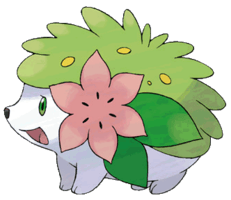
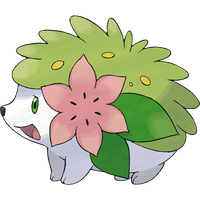
Added missing images

diff --git a/doc/resizeImages.py b/doc/resizeImages.py
@@ -1,24 +1,27 @@
 import os
 from PIL import Image
 
+SRC = "image_tmp"
+DEST = "image_tmp"
+HEIGHT = 200
 
-# count = 100
-# for root, dirs, files in os.walk("image"):
-    # for file in files:
-        # if count < 0: break
-        # count -= 1
-        # i = Image.open("image/"+file)
-        # # i = i.resize((i.size[0], i.size[1]), Image.ANTIALIAS)
-        # i.convert("P")
-        # i.save("image-small/"+file.split(".")[0]+".png", optimize=True, quality=10)
+def resize():
+    for root, dirs, files in os.walk(SRC):
+        for file in files:
+            i = Image.open(SRC + "/"+file)
+            i.thumbnail((i.size[0]*HEIGHT/i.size[1], i.size[1]), Image.ANTIALIAS)
+            i.convert("P")
+            i.save(DEST + "/"+file.split(".")[0]+".png", optimize=True, quality=10)
 
+def compress():
+    for root, dirs, files in os.walk(SRC):
+        for file in files:
+            os.system("pngquant --ext _new.png " + SRC + "/"+file)
 
+def rename():
+    for root, dirs, files in os.walk(SRC):
+        for file in files:
+            # Remove "_new.png", 8 characters
+            os.rename(SRC + "/" + file, DEST + "/"+file[:-8]+".png")
 
-count = 5
-
-for root, dirs, files in os.walk("image"):
-    for file in files:
-        # if count < 0: break
-        count -= 1
-        os.system("pngquant --ext _new.png image/"+file)
-        os.rename("image/" + file.split(".")[0] + "_new.png", "image-small/"+file)
+rename()

diff --git a/doc/database/generate_pokedex.py b/doc/database/generate_pokedex.py
@@ -25,8 +25,7 @@ def generate_pokemons(data):
         p.defense = row2[9].strip()
         p.sp_attack = row2[10].strip()
         p.sp_defense = row2[11].strip()
-        p.speed = row2[12].strip()[:-3]
-        
+        p.speed = row2[12].strip()[:-3]  
         p.size = rows[10].split(" = ")[1].strip()[:-2]
         p.weight = rows[5].split(" = ")[1].strip()[:-2]
         p.catch_rate = rows[4].split(" = ")[1].strip()[:-1]
